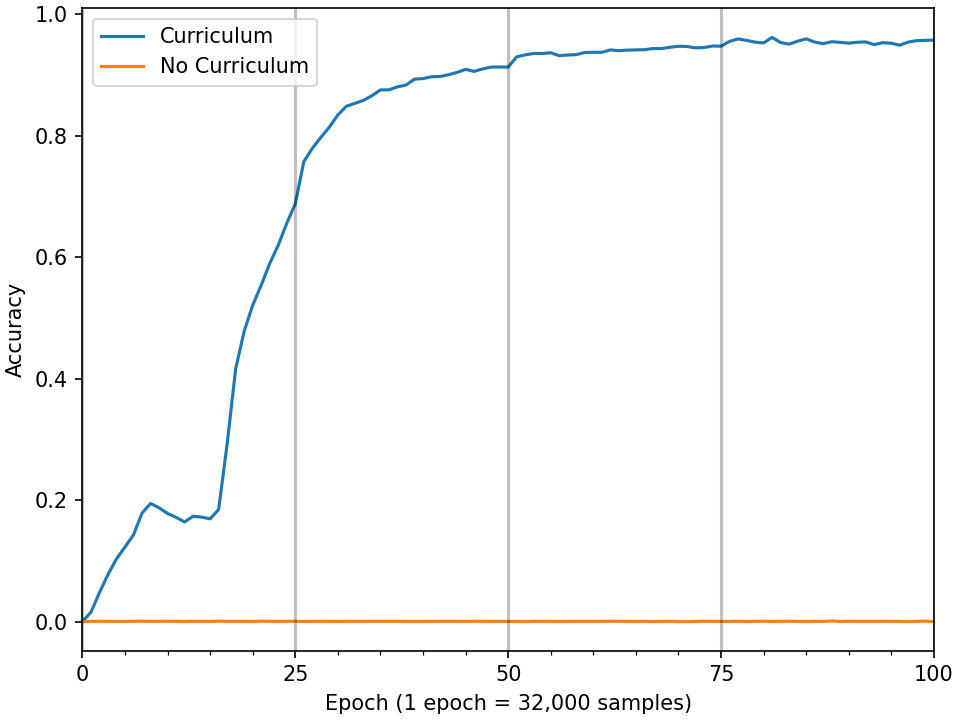
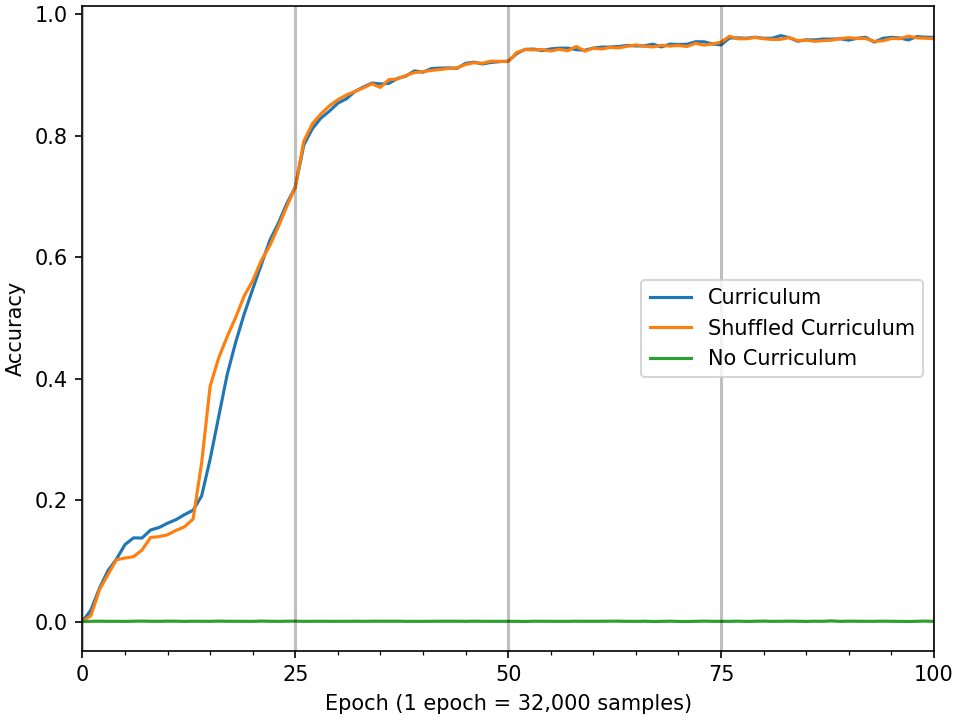
Sort kanji by stroke count and add option for shuffling the list
Previously the kanji list was in some order roughly (but not exactly)
corresponding to complexity and/or usage frequency. They are now sorted
by stroke count which is a more logical order to learn them in.

Curriculum learning can now be configured to either use the sorted list
or to shuffle the list before training.
The graph accuracy_comparison.png has been modified accordingly.

diff --git a/training.py b/training.py
@@ -62,7 +62,12 @@ def train_simple(model: tf.keras.Model, provider: Provider):
     return logger.data
 
 
-def train_curriculum(model: tf.keras.Model, provider: Provider):
+def train_curriculum(model: tf.keras.Model, provider: Provider, shuffle=False):
+    # Make a function-local copy of the kanji list so we can shuffle it safely
+    all_kanji = ALL_KANJI.copy()
+    if shuffle:
+        np.random.shuffle(all_kanji)
+
     model.compile(loss='sparse_categorical_crossentropy', optimizer='adam', metrics=['accuracy'])
 
     dataset = provider.get_dataset()
@@ -71,16 +76,16 @@ def train_curriculum(model: tf.keras.Model, provider: Provider):
     logger = LoggerCallback()
     logger.extra_params['batch_size'] = 16
 
-    for n_kanji in range(100, CATEGORIES_KANJI+1, 100):
+    for n_kanji in range(100, CATEGORIES_KANJI + 1, 100):
         logger.extra_params['n_kanji'] = n_kanji
         print(f"Training on subset of {n_kanji} kanji:")
-        provider.kanji = ALL_KANJI[:n_kanji]
+        provider.kanji = all_kanji[:n_kanji]
         model.fit(dataset.batch(16), steps_per_epoch=2000, epochs=1, callbacks=[logger])
 
     logger.extra_params['n_kanji'] = 2500
 
     print(f"Training on all {CATEGORIES_KANJI} kanji:")
-    provider.kanji = ALL_KANJI
+    provider.kanji = all_kanji
     print(f"Training with a batch size of 32:")
     logger.extra_params['batch_size'] = 32
     model.fit(dataset.batch(32), steps_per_epoch=1000, epochs=25, callbacks=[logger])

diff --git a/main.py b/main.py
@@ -68,6 +68,9 @@ def main():
     parser.add_argument("-c", "--curriculum", action="store_true",
                         help="Use curriculum learning. The model will start by learning the first 100 kanji, then "
                              "subsequent epochs will slowly introduce more kanji.")
+    parser.add_argument("-s", "--shuffle", action="store_true",
+                        help="Randomise the order of the kanji for curriculum learning. By default they are sorted "
+                             "in order of increasing stroke count.")
     args = parser.parse_args()
 
     if args.notrain:
@@ -95,6 +98,8 @@ def main():
 
     if not args.curriculum:
         save_dir = Path("save") / "no_curriculum"
+    elif args.shuffle:
+        save_dir = Path("save") / "shuffle"
     save_path = save_dir / "recogniser_clutter"
     log_path = save_dir / "training_log.json"
 
@@ -113,7 +118,7 @@ def main():
         m_kanji.load_weights(str(save_path))
     else:
         if args.curriculum:
-            train_log = train_curriculum(m_kanji, provider)
+            train_log = train_curriculum(m_kanji, provider, args.shuffle)
         else:
             train_log = train_simple(m_kanji, provider)
         print(f"Saving model weights to: {save_path}")

diff --git a/analysis.py b/analysis.py
@@ -11,6 +11,7 @@ from rendering import gen_training_sample
 def plot_accuracy_comparison():
     save_dir = Path("save")
     saves = [(save_dir / "multiprocess", "Curriculum"),
+             (save_dir / "shuffle", "Shuffled Curriculum"),
              (save_dir / "no_curriculum", "No Curriculum")]
 
     fig, ax = plt.subplots(constrained_layout=True)
